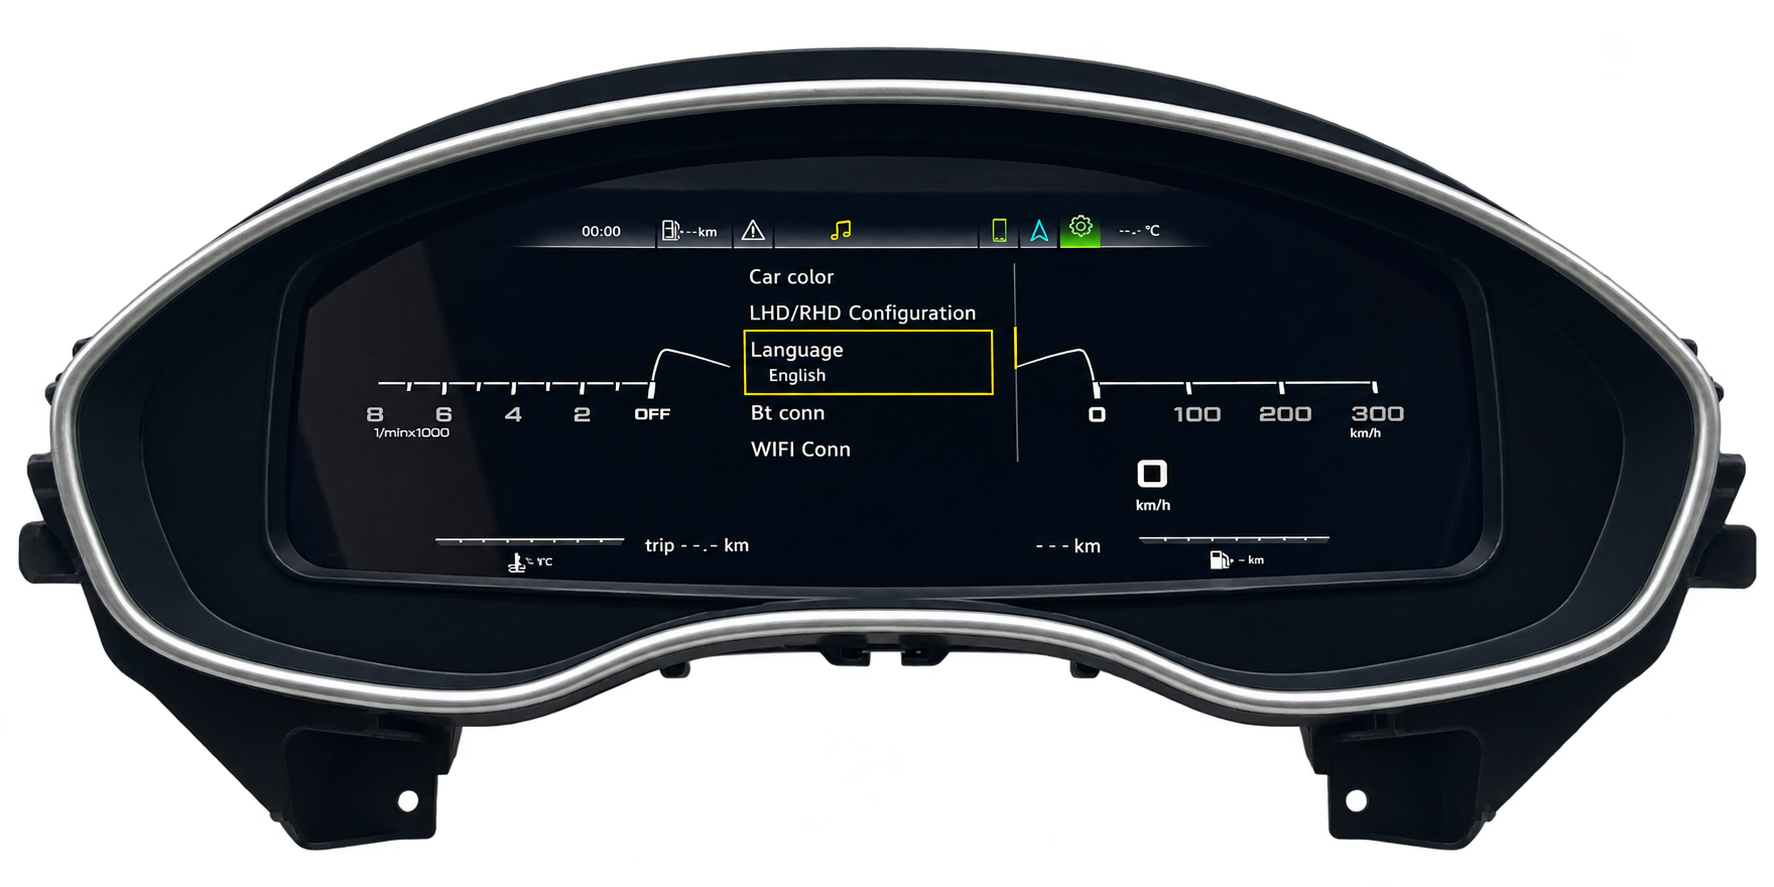
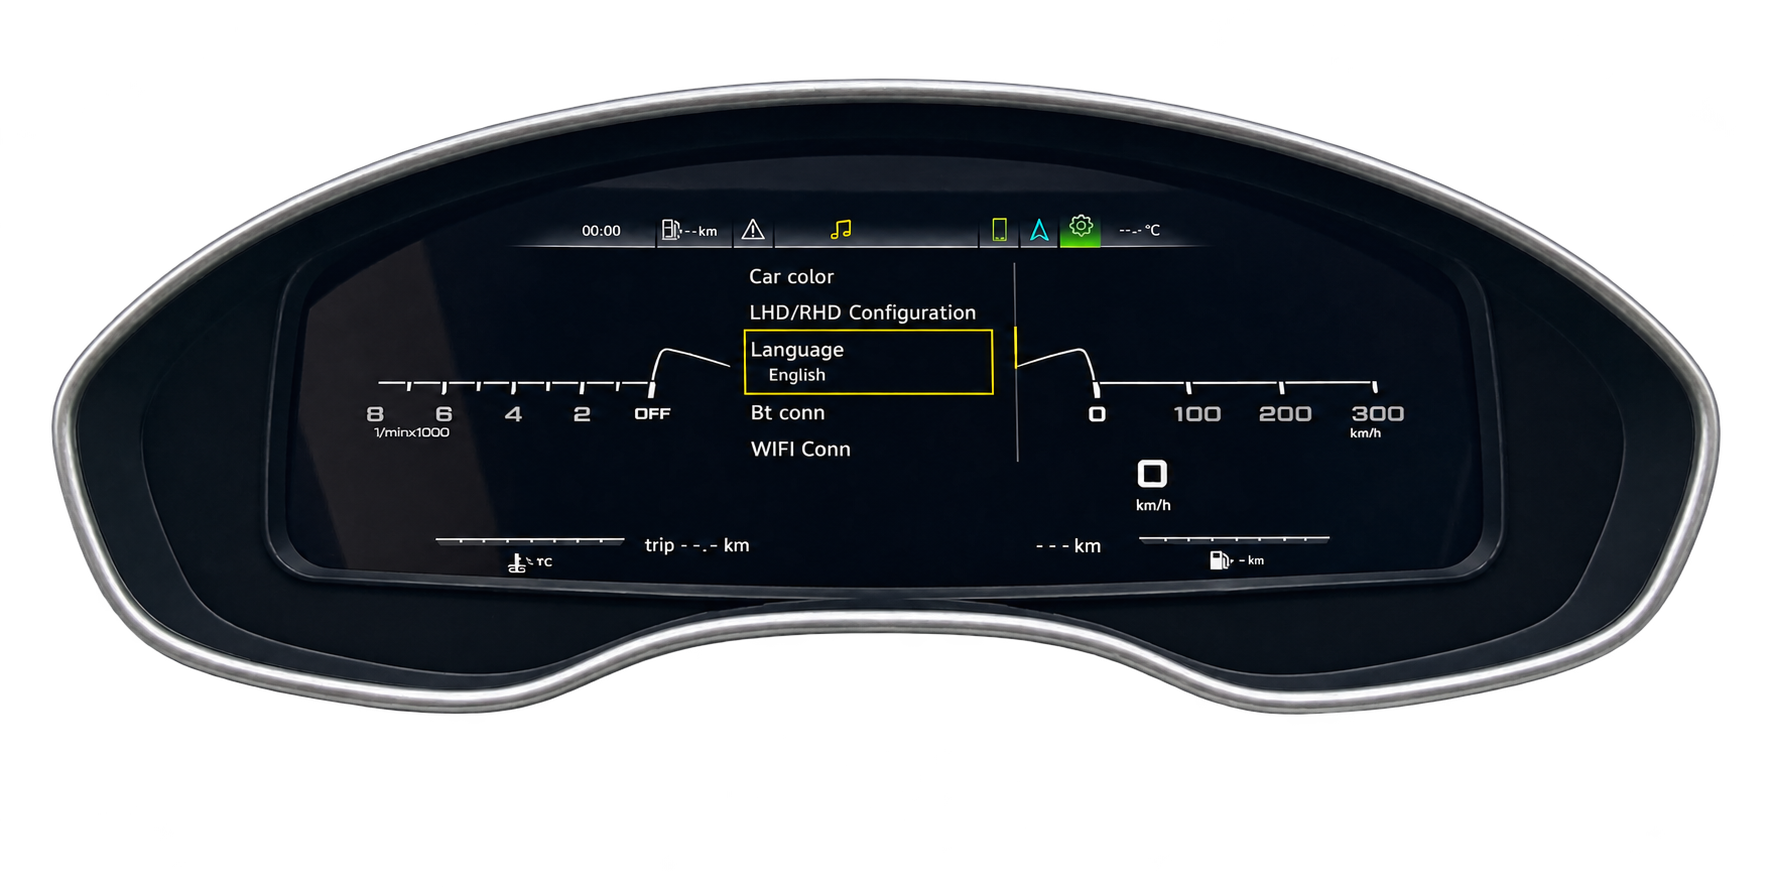
Trim cluster images to chrome bezel and raise feature navigation

diff --git a/whos-steering/frontend/src/pages/DigitalCluster.css b/whos-steering/frontend/src/pages/DigitalCluster.css
@@ -92,3 +92,6 @@
 
 /* Fill the overview evenly while leaving the focused insight layout unchanged. */
 @media(min-width:761px){.cluster-viewport:not(.is-focused){aspect-ratio:2}.cluster-viewport:not(.is-focused) .cluster-image-layer{width:98%}}
+
+.cluster-image-layer>.cluster-more-features{top:82%}
+@media(max-width:760px){.cluster-image-layer>.cluster-more-features{top:80%}}

diff --git a/docs/digital-instrument-cluster.md b/docs/digital-instrument-cluster.md
@@ -43,11 +43,20 @@ Assets are in `whos-steering/frontend/public/products/digital-instrument-cluster
 
 ## Compact overview refinement
 
-The product overview is capped at 880px, with a smaller image and a centered More Features arrow in the open notch beneath the center bezel, between the mounting tabs. Navigation is present only in the unselected overview. Opening an insight hides it; clicking anywhere outside the popup and insight selectors restores the current photo’s full view. Clicking inside the information box leaves it open. Escape, Reset View and the close button remain accessible alternatives. All photographs and the existing waitlist are retained.
+The product overview is capped at 880px, with a smaller image and a centered More Features arrow in the open notch beneath the center bezel, below the center of the chrome bezel. Navigation is present only in the unselected overview. Opening an insight hides it; clicking anywhere outside the popup and insight selectors restores the current photo’s full view. Clicking inside the information box leaves it open. Escape, Reset View and the close button remain accessible alternatives. All photographs and the existing waitlist are retained.
 
 
 Each insight has bottom-corner Back and Next arrows. They cycle through the current photo’s three hotspots, animates the corresponding close-up and wraps back to the first insight. The popup stays mounted so keyboard focus remains on the navigation control. Clicking outside still returns to the overview.
 
-A fixed yellow Join the Waitlist call to action stays visible while browsing and exploring insights. On mobile it spans the bottom edge; on desktop it sits at bottom right with the product name. It opens and focuses the signup form, then hides to avoid covering the form. Overview size remains compact; desktop insight view has enough vertical space for its full text and corner controls.
+A fixed yellow Join the Waitlist call to action stays visible while browsing and exploring insights. On mobile it spans the bottom edge; on desktop it sits at bottom center with the product name. It opens and focuses the signup form, then hides to avoid covering the form. Overview size remains compact; desktop insight view has enough vertical space for its full text and corner controls.
 
-The focused viewport is explicitly constrained to the centered product column. Its desktop height no longer transfers through the aspect ratio into a larger width, so opening or changing an insight does not move the viewport sideways. Clipped overflow also prevents the zoomed image from creating an internal scroll offset. The header is limited to a centered 1000px group, keeping its waitlist action close to the introduction. The floating waitlist CTA is centered at the bottom of the screen; mobile retains its full-width bottom action.
+The focused viewport is explicitly constrained to the centered product column. Its desktop height no longer transfers through the aspect ratio into a larger width, so opening or changing an insight does not move the viewport sideways. Clipped overflow also prevents the zoomed image from creating an internal scroll offset. The header is limited to a centered 1000px group, keeping the introduction and Coming Soon indicator together. The floating waitlist CTA is centered at the bottom of the screen; mobile retains its full-width bottom action.
+
+
+## Chrome bezel cutouts
+
+All eight product PNGs in `whos-steering/frontend/public/products/digital-instrument-cluster/` were edited with built-in imagegen on 2026-11-13 to remove the exterior plastic housing and mounting tabs. Chrome and the display inside it remain, with alpha transparency outside the bezel. The More Features control was raised from 84% to 82% of the image height on desktop, and from 82% to 80% on mobile.
+
+Prompt used separately for each asset:
+
+> undefined
